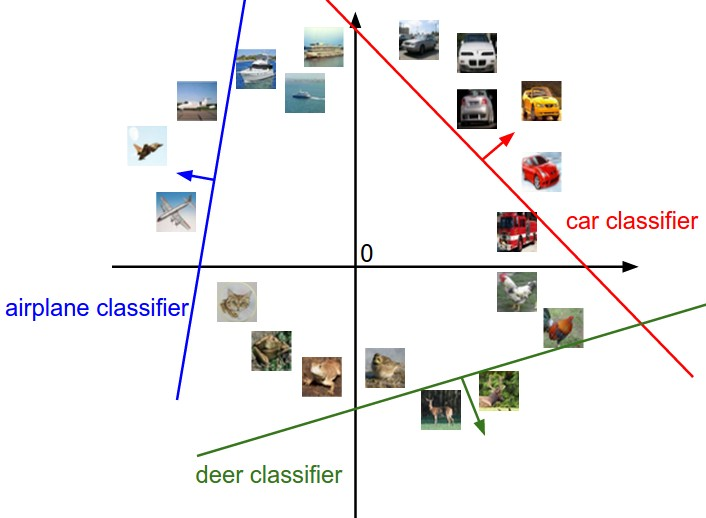
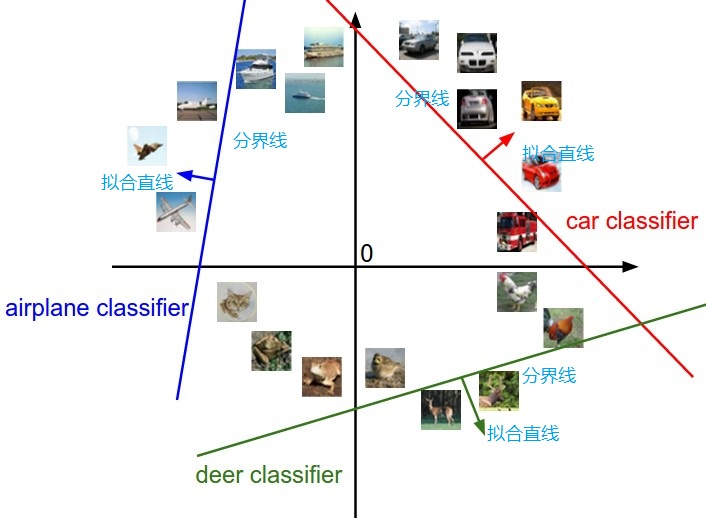
修改线性分类器的理解

diff --git a/02. Linear classification.md b/02. Linear classification.md
@@ -17,7 +17,7 @@
 评分函数：$f(x_i,W,b)=Wx_i+b$，即将原始图像像素线性映射到分类分值，参数W被称为权重（weights），b被称为偏差向量（bias vector）
 
 理解：
-* 将图像看做高维度的点，线性分类器描述对应的梯度分界线
+* 将图像看做高维度的点，每个线性分类器拟合对应样本的分布，再根据得分划分类别界线
 ![分界线](image/线性分类器理解1.jpeg)
 * 将线性分类器看做模板匹配，权重W的每一行对应着一个分类的模板
 ![模板](image/线性分类器理解2.jpg)
